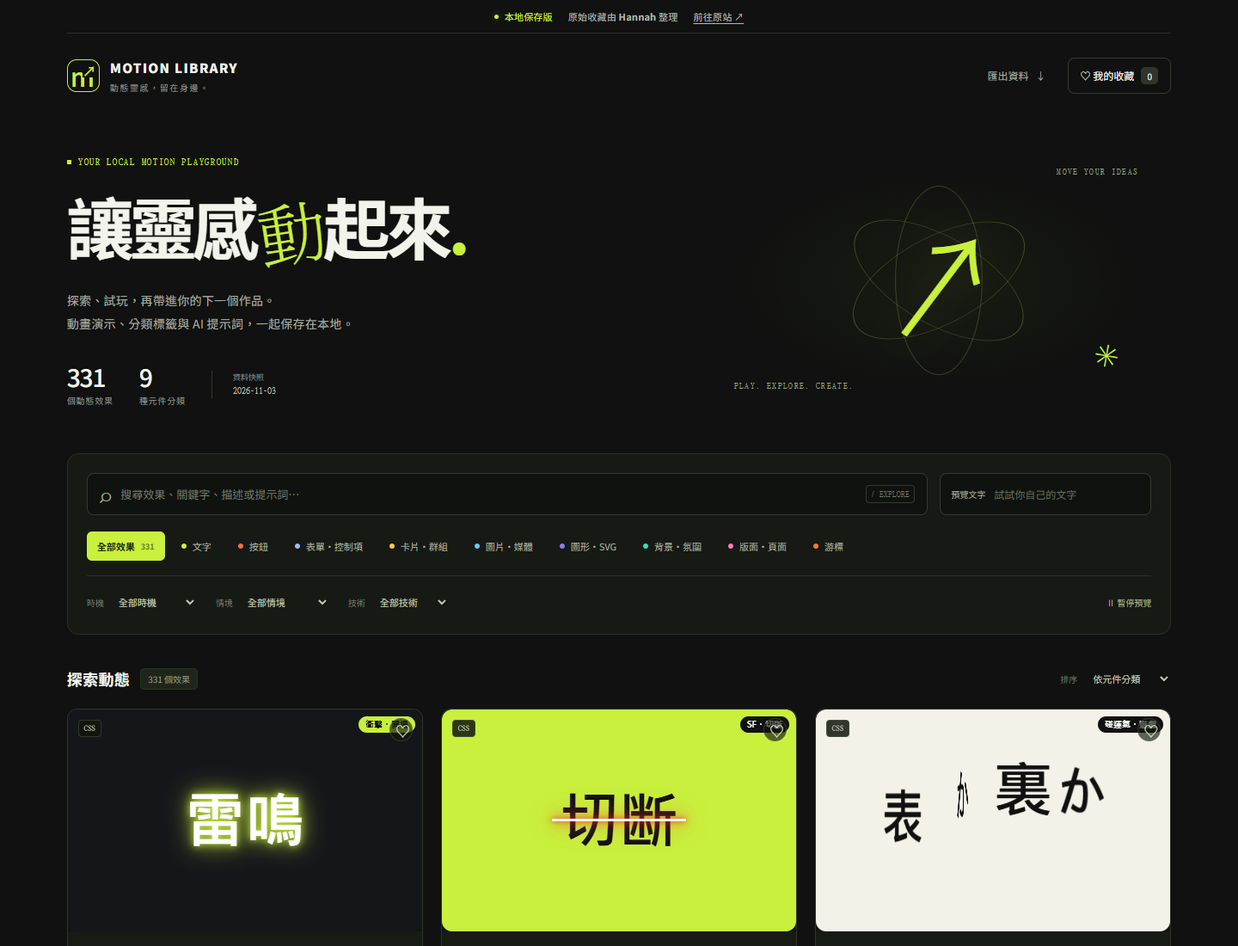
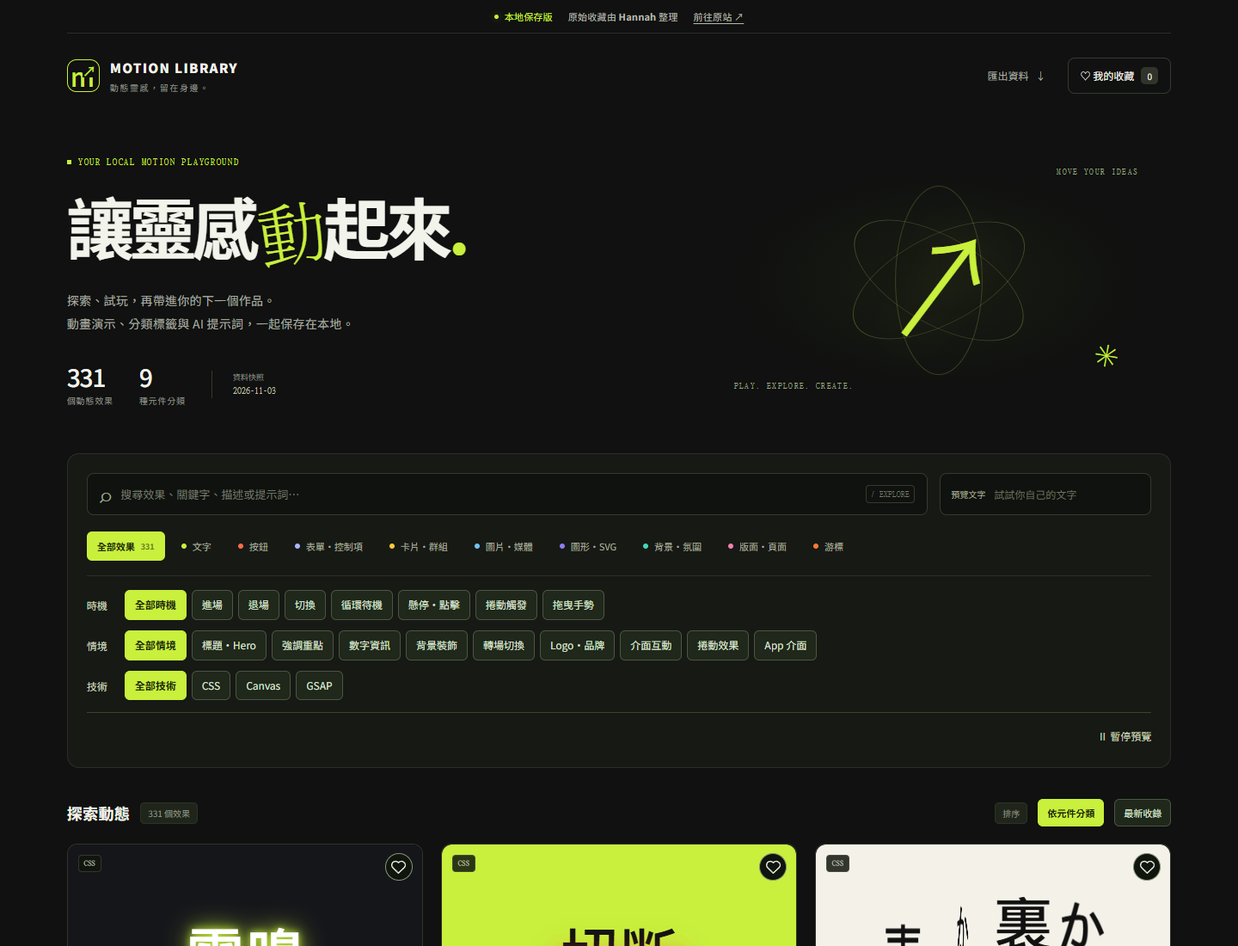
fix: 改善卡片可讀性與篩選操作
- 修正收藏愛心圖示置中
- 提高特效說明與標籤的文字對比度
- 調整演示標籤位置，避免與愛心重疊
- 將篩選與排序改為完整按鈕列，支援手機版換行
- 更新驗收測試、驗證報告與截圖

diff --git a/src/style.css b/src/style.css
@@ -1,4 +1,20 @@
-:root{font-family:Inter,"Noto Sans TC","Microsoft JhengHei",system-ui,sans-serif;color:#f2f3eb;background:#101110;font-synthesis:none;text-rendering:optimizeLegibility;-webkit-font-smoothing:antialiased;color-scheme:dark}*{box-sizing:border-box}body{margin:0}button,input,select,textarea{font:inherit}button,a,input,select,textarea{-webkit-tap-highlight-color:transparent}button,a{touch-action:manipulation}button{cursor:pointer}button:disabled{cursor:default;opacity:.35}button:focus-visible,a:focus-visible,input:focus-visible,select:focus-visible,textarea:focus-visible{outline:2px solid #c8f03c;outline-offset:4px}button{color:inherit}a{color:inherit}button,input,select,textarea{border-radius:0}.ml-app{--ml-lime:#c8f03c;--ml-muted:#8f938c;--ml-border:#2b2e28;max-width:1600px;margin:auto;padding:0 5.4vw}.ml-source-strip{display:flex;align-items:center;justify-content:center;gap:18px;padding:11px 0;border-bottom:1px solid var(--ml-border);font-size:11px;color:#b6b9ae;letter-spacing:.02em}.ml-source-strip>span:first-child{display:inline-flex;gap:7px;align-items:center;color:var(--ml-lime)}.ml-source-strip a{text-underline-offset:3px}.ml-status-dot{width:5px;height:5px;border-radius:50%;background:var(--ml-lime);box-shadow:0 0 9px #c8f03c66}.ml-header{display:flex;align-items:center;justify-content:space-between;padding:28px 0;gap:20px}.ml-brand{display:flex;align-items:center;gap:12px;text-decoration:none;font-size:15px;font-weight:800;letter-spacing:.09em}.ml-brand small{display:block;margin-top:5px;font-size:10px;color:var(--ml-muted);font-weight:400;letter-spacing:.16em}.ml-brand-mark{display:flex;align-items:center;justify-content:center;position:relative;width:38px;height:38px;border:1px solid var(--ml-lime);border-radius:11px;color:var(--ml-lime);font-size:30px;font-style:italic;line-height:1;font-weight:500;letter-spacing:-.17em;padding-right:7px}.ml-brand-mark span{font-size:16px;position:absolute;right:3px;top:4px;background:#101110;letter-spacing:0}.ml-header-actions{display:flex;align-items:center;gap:10px}.ml-button{display:inline-flex;gap:8px;align-items:center;justify-content:center;border:1px solid #363a30;border-radius:8px;background:transparent;padding:10px 14px;font-size:12px;line-height:1.3;transition:background .2s,border-color .2s}.ml-button:hover{background:#24271f;border-color:#727965}.ml-quiet{border-color:transparent;color:#a8aca1}.ml-active{color:var(--ml-lime);border-color:#6d7b34;background:#c8f03c0b}.ml-count{display:inline-grid;place-items:center;min-width:20px;height:20px;border-radius:5px;font-size:10px;background:#30342a}.ml-hero{position:relative;display:grid;grid-template-columns:1.3fr 1fr;gap:40px;align-items:center;padding:44px 0 56px;overflow:hidden}.ml-eyebrow{display:flex;align-items:center;gap:8px;font:10px/1.5 ui-monospace,monospace;letter-spacing:.17em;color:var(--ml-lime);margin:0 0 20px}.ml-eyebrow>span{height:5px;width:5px;background:var(--ml-lime)}.ml-hero h1{font-size:clamp(42px,5.8vw,78px);font-weight:700;letter-spacing:-.065em;line-height:1.2;margin:0 0 20px}.ml-serif{display:inline-block;font-family:"Noto Serif TC",Georgia,serif;color:var(--ml-lime);font-weight:500;transform:rotate(-9deg);margin:0 .04em}.ml-title-period{color:var(--ml-lime)}.ml-intro{color:#a7aba0;font-size:14px;line-height:1.95;letter-spacing:.02em;margin:0}.ml-hero-stats{display:flex;gap:30px;margin-top:33px;align-items:center}.ml-hero-stats>strong{font-size:28px;font-weight:500;letter-spacing:-.04em;line-height:1}.ml-hero-stats>strong span{display:block;font-size:10px;color:var(--ml-muted);letter-spacing:.08em;font-weight:400;margin-top:9px}.ml-snapshot{font-size:9px;line-height:1.7;color:var(--ml-muted);border-left:1px solid #353a2c;padding-left:24px}.ml-snapshot b{font:10px/1.7 ui-monospace,monospace;font-weight:400;color:#c0c5b5}.ml-hero-art{height:290px;position:relative;isolation:isolate;display:grid;place-items:center;background:radial-gradient(ellipse at center,#c8f03c0b,transparent 65%)}.ml-orbit{position:absolute;width:220px;height:220px;border:1px solid #879b4770;border-radius:50%;transform:rotate(-28deg) scaleY(.46)}.ml-orbit-two{transform:rotate(30deg) scaleY(.46)}.ml-orbit-three{transform:rotate(90deg) scaleY(.46)}.ml-art-core{font-size:150px;line-height:1;font-weight:300;color:var(--ml-lime);text-shadow:0 0 50px #c8f03c22;transform:rotate(-8deg)}.ml-art-label{position:absolute;font:9px/1 ui-monospace,monospace;color:#9da784;letter-spacing:.15em}.ml-art-label-top{top:14px;right:7%}.ml-art-label-bottom{bottom:18px;left:6%}.ml-art-star{position:absolute;right:11%;bottom:35px;font-size:35px;color:var(--ml-lime);transform:rotate(10deg)}.ml-explorer{padding:22px;border:1px solid var(--ml-border);border-radius:14px;background:#171915}.ml-search-row{display:flex;gap:14px}.ml-search{display:flex;align-items:center;gap:10px;flex:1;background:#10120f;border:1px solid #353a2e;border-radius:8px;padding:0 14px;min-width:0}.ml-search>span{font-size:25px;line-height:1;color:#9ba58b}.ml-search input{width:100%;min-width:0;border:0;outline:none;background:transparent;padding:14px 0;font-size:13px;color:#eef0e7}.ml-search input::placeholder{color:#747c6d}.ml-search kbd{flex-shrink:0;font:9px/1 ui-monospace,monospace;color:#727a69;padding:5px;border:1px solid #343a2e;border-radius:4px}.ml-custom-input{display:flex;align-items:center;gap:10px;border:1px solid #353a2e;border-radius:8px;padding:0 12px;background:#10120f;max-width:310px}.ml-custom-input span{font-size:10px;white-space:nowrap;color:#a0a794}.ml-custom-input input{background:none;border:0;min-width:0;width:170px;padding:14px 0;font-size:12px;outline:none}.ml-custom-input input::placeholder{color:#69715f}.ml-component-chips{display:flex;flex-wrap:wrap;gap:7px;padding:19px 0 17px;border-bottom:1px solid #2b3026}.ml-chip{display:flex;gap:7px;align-items:center;border:1px solid transparent;border-radius:6px;padding:8px 11px;background:transparent;color:#a6ad9e;font-size:11px;transition:color .2s,background .2s}.ml-chip i{width:6px;height:6px;border-radius:50%}.ml-chip span{font-size:9px;opacity:.6}.ml-chip:hover{background:#252a20;color:white}.ml-chip-selected{background:var(--ml-lime);color:#1c2409;font-weight:700}.ml-chip-selected:hover{background:#dbff62;color:#1c2409}.ml-secondary-filters{display:flex;gap:22px;align-items:center;padding-top:15px;flex-wrap:wrap}.ml-secondary-filters>label{font-size:10px;color:#777f6d;display:flex;gap:9px;align-items:center}.ml-secondary-filters select,.ml-sort select{padding:6px 20px 6px 4px;background:transparent;border:0;color:#c1c9b4;font-size:11px;cursor:pointer;max-width:180px}.ml-secondary-filters select option,.ml-sort select option{background:#1b1f17;color:#eef0e7}.ml-clear,.ml-play-toggle{border:0;background:none;font-size:10px;color:#a0ad89;padding:6px 0}.ml-clear:hover,.ml-play-toggle:hover{color:var(--ml-lime)}.ml-play-toggle{margin-left:auto;white-space:nowrap}.ml-results{scroll-margin-top:20px;margin-top:36px}.ml-results-bar{display:flex;justify-content:space-between;align-items:center;margin-bottom:20px;gap:14px}.ml-results-bar>div{display:flex;gap:12px;align-items:center}.ml-results-bar h2{font-size:18px;font-weight:600;letter-spacing:.02em;margin:0}.ml-results-bar>div>span{font-size:10px;color:#8e9684;padding:4px 8px;background:#20251b;border:1px solid #2c3324;border-radius:5px}.ml-sort{font-size:10px;color:#747e69}.ml-sort select{margin-left:10px}.ml-grid{display:grid;grid-template-columns:repeat(3,minmax(0,1fr));gap:21px}.ml-card{min-width:0;border:1px solid #30342b;border-radius:12px;overflow:hidden;background:#171a15;transition:border-color .2s,transform .2s}.ml-card:hover{border-color:#5d694b;transform:translateY(-2px)}.ml-card-preview{position:relative;aspect-ratio:16/10;min-width:0;overflow:hidden;background:#12150f}.ml-card-preview> :first-child{width:100%;height:100%}.ml-tech-badge{position:absolute;z-index:3;top:12px;left:12px;font:8px/1 ui-monospace,monospace;letter-spacing:.05em;padding:5px 6px;background:#10150dd9;border:1px solid #717c5d55;color:#d4ddc3;border-radius:4px;pointer-events:none}.ml-favorite{position:absolute;z-index:3;right:11px;top:10px;background:#10150da6;border:1px solid #8c957a44;border-radius:50%;height:27px;width:27px;display:grid;place-items:center;font-size:17px;color:#dce5d0}.ml-favorite:hover,.ml-favorited{color:var(--ml-lime);border-color:#a8c84c}.ml-card-body{padding:18px 18px 13px}.ml-card-title-row{display:flex;align-items:center;gap:10px}.ml-item-number{font:10px/1 ui-monospace,monospace;color:#748162;align-self:center}.ml-item-title{text-align:left;min-width:0;display:flex;gap:8px;align-items:center;width:100%;padding:0;border:0;background:none;color:#eef2e7;font-size:15px;font-weight:600;line-height:1.5}.ml-item-title span{margin-left:auto;font-size:15px;color:#9aa78b;transition:transform .2s}.ml-item-title:hover{color:var(--ml-accent)}.ml-item-title:hover span{transform:translate(2px,-2px)}.ml-item-english{margin:3px 0 0 30px;font:9px/1.7 ui-monospace,monospace;letter-spacing:.02em;color:#808d71;min-height:16px}.ml-item-desc{font-size:11px;line-height:1.7;color:#9aa58d;margin:12px 0;min-height:37px;display:-webkit-box;-webkit-line-clamp:2;-webkit-box-orient:vertical;overflow:hidden}.ml-tags{display:flex;flex-wrap:wrap;gap:5px;min-height:20px}.ml-tags button,.ml-tags>span{font-size:9px;line-height:1.3;border:1px solid #35412b;border-radius:4px;background:#20291b;color:#a4b690;padding:3px 6px}.ml-tags button:hover{color:#e4f8cd;border-color:#6b8a50}.ml-card-actions{display:flex;justify-content:space-between;align-items:center;gap:8px;border-top:1px solid #2e3726;margin-top:16px;padding-top:12px}.ml-prompt-button,.ml-detail-button{padding:3px 0;border:0;background:none;color:#b4c1a4;font-size:10px;line-height:1.5}.ml-prompt-button span{margin-right:5px;font-size:13px}.ml-detail-button{color:#d0dbbf;white-space:nowrap}.ml-detail-button span{margin-left:7px}.ml-prompt-button:hover,.ml-detail-button:hover{color:var(--ml-lime)}.ml-pagination{display:flex;justify-content:center;gap:25px;align-items:center;margin:35px 0 15px}.ml-pagination>span{color:#8f9c7e;font:11px/1.5 ui-monospace,monospace}.ml-pagination strong{color:var(--ml-lime);font-weight:500}.ml-empty{text-align:center;border:1px dashed #404e32;border-radius:12px;padding:65px 20px;background:#171c13}.ml-empty>span{font-size:40px;color:var(--ml-lime)}.ml-empty h3{font-size:20px;margin:15px 0 8px}.ml-empty p{color:#92a17f;font-size:12px;margin-bottom:25px}.ml-footer{margin-top:65px;padding:30px 0 40px;border-top:1px solid #2d3625;display:flex;justify-content:space-between;gap:28px;color:#7e8a6e;font-size:10px;line-height:1.8}.ml-footer p{margin:5px 0}.ml-footer-brand{color:#c5d4b1;font:11px/1.7 ui-monospace,monospace;letter-spacing:.1em;text-decoration:none}.ml-footer-brand span{color:var(--ml-lime)}.ml-footer-credit{text-align:right}.ml-footer-credit a{color:#b0c294;text-underline-offset:3px}.ml-dialog{margin:auto;border:1px solid #4a5839;border-radius:16px;padding:0;background:#171c13;color:#edf1e6;width:min(850px,calc(100% - 32px));max-height:calc(100dvh - 40px);overflow:auto;box-shadow:0 24px 100px #0009}.ml-dialog::backdrop{background:#080b07d6;backdrop-filter:blur(8px)}.ml-dialog-header{display:flex;align-items:flex-start;justify-content:space-between;padding:23px 25px;gap:20px}.ml-dialog-header .ml-eyebrow{margin-bottom:8px;font-size:9px}.ml-dialog-header h2{margin:0;font-size:25px}.ml-dialog-header>div>p:last-child{font:11px/1.6 ui-monospace,monospace;color:#97a586;margin:5px 0 0}.ml-close{border:1px solid #425133;border-radius:50%;background:#222c19;width:32px;height:32px;font-size:22px;line-height:1}.ml-close:hover{background:#354825}.ml-large-preview{position:relative;height:clamp(230px,40vh,390px);overflow:hidden;background:#0f140b;border-top:1px solid #313e25;border-bottom:1px solid #313e25}.ml-large-preview> :first-child{width:100%;height:100%}.ml-replay{position:absolute;z-index:4;right:14px;bottom:14px;border:1px solid #a1bc7a77;background:#14200ddc;border-radius:6px;padding:7px 12px;font-size:11px;color:#e0efc9}.ml-dialog-content{padding:23px 25px}.ml-detail-desc{font-size:14px;line-height:1.8;margin:0 0 14px;color:#c3cfb4}.ml-keyword-section{padding:19px 0 8px}.ml-dialog h3{font-size:12px;font-weight:600;margin:0}.ml-keyword-section p{font-size:11px;line-height:1.8;color:#99ad82;margin:8px 0}.ml-prompt-heading{display:flex;align-items:center;justify-content:space-between;gap:15px;margin:15px 0 12px}.ml-primary{background:var(--ml-lime);color:#1b240d;border-color:var(--ml-lime);font-weight:700}.ml-primary:hover{background:#dbff62;border-color:#dbff62}.ml-prompt-text{display:block;resize:vertical;width:100%;border:1px solid #3c4d2c;background:#10160c;border-radius:8px;padding:15px;color:#cbd8bd;font-size:12px;line-height:1.9;min-height:140px}.ml-detail-source{display:flex;justify-content:space-between;gap:14px;font-size:10px;line-height:1.8;color:#8e9f78;margin-top:18px;flex-wrap:wrap}.ml-detail-source a{color:#c8dfab;text-underline-offset:3px}.ml-toast{position:fixed;z-index:200;bottom:25px;left:50%;transform:translate(-50%,15px);background:#d2f77b;color:#1c2a0b;border:1px solid #ebffc1;border-radius:9px;padding:12px 20px;font-size:12px;box-shadow:0 8px 35px #0006;opacity:0;pointer-events:none;transition:opacity .2s,transform .2s;max-width:calc(100vw - 32px);width:max-content}.ml-toast-visible{opacity:1;transform:translate(-50%,0)}
+:root{font-family:Inter,"Noto Sans TC","Microsoft JhengHei",system-ui,sans-serif;color:#f2f3eb;background:#101110;font-synthesis:none;text-rendering:optimizeLegibility;-webkit-font-smoothing:antialiased;color-scheme:dark}*{box-sizing:border-box}body{margin:0}button,input,select,textarea{font:inherit}button,a,input,select,textarea{-webkit-tap-highlight-color:transparent}button,a{touch-action:manipulation}button{cursor:pointer}button:disabled{cursor:default;opacity:.35}button:focus-visible,a:focus-visible,input:focus-visible,select:focus-visible,textarea:focus-visible{outline:2px solid #c8f03c;outline-offset:4px}button{color:inherit}a{color:inherit}button,input,select,textarea{border-radius:0}.ml-app{--ml-lime:#c8f03c;--ml-muted:#8f938c;--ml-border:#2b2e28;max-width:1600px;margin:auto;padding:0 5.4vw}.ml-source-strip{display:flex;align-items:center;justify-content:center;gap:18px;padding:11px 0;border-bottom:1px solid var(--ml-border);font-size:11px;color:#b6b9ae;letter-spacing:.02em}.ml-source-strip>span:first-child{display:inline-flex;gap:7px;align-items:center;color:var(--ml-lime)}.ml-source-strip a{text-underline-offset:3px}.ml-status-dot{width:5px;height:5px;border-radius:50%;background:var(--ml-lime);box-shadow:0 0 9px #c8f03c66}.ml-header{display:flex;align-items:center;justify-content:space-between;padding:28px 0;gap:20px}.ml-brand{display:flex;align-items:center;gap:12px;text-decoration:none;font-size:15px;font-weight:800;letter-spacing:.09em}.ml-brand small{display:block;margin-top:5px;font-size:10px;color:var(--ml-muted);font-weight:400;letter-spacing:.16em}.ml-brand-mark{display:flex;align-items:center;justify-content:center;position:relative;width:38px;height:38px;border:1px solid var(--ml-lime);border-radius:11px;color:var(--ml-lime);font-size:30px;font-style:italic;line-height:1;font-weight:500;letter-spacing:-.17em;padding-right:7px}.ml-brand-mark span{font-size:16px;position:absolute;right:3px;top:4px;background:#101110;letter-spacing:0}.ml-header-actions{display:flex;align-items:center;gap:10px}.ml-button{display:inline-flex;gap:8px;align-items:center;justify-content:center;border:1px solid #363a30;border-radius:8px;background:transparent;padding:10px 14px;font-size:12px;line-height:1.3;transition:background .2s,border-color .2s}.ml-button:hover{background:#24271f;border-color:#727965}.ml-quiet{border-color:transparent;color:#a8aca1}.ml-active{color:var(--ml-lime);border-color:#6d7b34;background:#c8f03c0b}.ml-count{display:inline-grid;place-items:center;min-width:20px;height:20px;border-radius:5px;font-size:10px;background:#30342a}.ml-hero{position:relative;display:grid;grid-template-columns:1.3fr 1fr;gap:40px;align-items:center;padding:44px 0 56px;overflow:hidden}.ml-eyebrow{display:flex;align-items:center;gap:8px;font:10px/1.5 ui-monospace,monospace;letter-spacing:.17em;color:var(--ml-lime);margin:0 0 20px}.ml-eyebrow>span{height:5px;width:5px;background:var(--ml-lime)}.ml-hero h1{font-size:clamp(42px,5.8vw,78px);font-weight:700;letter-spacing:-.065em;line-height:1.2;margin:0 0 20px}.ml-serif{display:inline-block;font-family:"Noto Serif TC",Georgia,serif;color:var(--ml-lime);font-weight:500;transform:rotate(-9deg);margin:0 .04em}.ml-title-period{color:var(--ml-lime)}.ml-intro{color:#a7aba0;font-size:14px;line-height:1.95;letter-spacing:.02em;margin:0}.ml-hero-stats{display:flex;gap:30px;margin-top:33px;align-items:center}.ml-hero-stats>strong{font-size:28px;font-weight:500;letter-spacing:-.04em;line-height:1}.ml-hero-stats>strong span{display:block;font-size:10px;color:var(--ml-muted);letter-spacing:.08em;font-weight:400;margin-top:9px}.ml-snapshot{font-size:9px;line-height:1.7;color:var(--ml-muted);border-left:1px solid #353a2c;padding-left:24px}.ml-snapshot b{font:10px/1.7 ui-monospace,monospace;font-weight:400;color:#c0c5b5}.ml-hero-art{height:290px;position:relative;isolation:isolate;display:grid;place-items:center;background:radial-gradient(ellipse at center,#c8f03c0b,transparent 65%)}.ml-orbit{position:absolute;width:220px;height:220px;border:1px solid #879b4770;border-radius:50%;transform:rotate(-28deg) scaleY(.46)}.ml-orbit-two{transform:rotate(30deg) scaleY(.46)}.ml-orbit-three{transform:rotate(90deg) scaleY(.46)}.ml-art-core{font-size:150px;line-height:1;font-weight:300;color:var(--ml-lime);text-shadow:0 0 50px #c8f03c22;transform:rotate(-8deg)}.ml-art-label{position:absolute;font:9px/1 ui-monospace,monospace;color:#9da784;letter-spacing:.15em}.ml-art-label-top{top:14px;right:7%}.ml-art-label-bottom{bottom:18px;left:6%}.ml-art-star{position:absolute;right:11%;bottom:35px;font-size:35px;color:var(--ml-lime);transform:rotate(10deg)}.ml-explorer{padding:22px;border:1px solid var(--ml-border);border-radius:14px;background:#171915}.ml-search-row{display:flex;gap:14px}.ml-search{display:flex;align-items:center;gap:10px;flex:1;background:#10120f;border:1px solid #353a2e;border-radius:8px;padding:0 14px;min-width:0}.ml-search>span{font-size:25px;line-height:1;color:#9ba58b}.ml-search input{width:100%;min-width:0;border:0;outline:none;background:transparent;padding:14px 0;font-size:13px;color:#eef0e7}.ml-search input::placeholder{color:#747c6d}.ml-search kbd{flex-shrink:0;font:9px/1 ui-monospace,monospace;color:#727a69;padding:5px;border:1px solid #343a2e;border-radius:4px}.ml-custom-input{display:flex;align-items:center;gap:10px;border:1px solid #353a2e;border-radius:8px;padding:0 12px;background:#10120f;max-width:310px}.ml-custom-input span{font-size:10px;white-space:nowrap;color:#a0a794}.ml-custom-input input{background:none;border:0;min-width:0;width:170px;padding:14px 0;font-size:12px;outline:none}.ml-custom-input input::placeholder{color:#69715f}.ml-component-chips{display:flex;flex-wrap:wrap;gap:7px;padding:19px 0 17px;border-bottom:1px solid #2b3026}.ml-chip{display:flex;gap:7px;align-items:center;border:1px solid transparent;border-radius:6px;padding:8px 11px;background:transparent;color:#a6ad9e;font-size:11px;transition:color .2s,background .2s}.ml-chip i{width:6px;height:6px;border-radius:50%}.ml-chip span{font-size:9px;opacity:.6}.ml-chip:hover{background:#252a20;color:white}.ml-chip-selected{background:var(--ml-lime);color:#1c2409;font-weight:700}.ml-chip-selected:hover{background:#dbff62;color:#1c2409}.ml-secondary-filters{display:flex;gap:22px;align-items:center;padding-top:15px;flex-wrap:wrap}.ml-secondary-filters>label{font-size:10px;color:#777f6d;display:flex;gap:9px;align-items:center}.ml-secondary-filters select,.ml-sort select{padding:6px 20px 6px 4px;background:transparent;border:0;color:#c1c9b4;font-size:11px;cursor:pointer;max-width:180px}.ml-secondary-filters select option,.ml-sort select option{background:#1b1f17;color:#eef0e7}.ml-clear,.ml-play-toggle{border:0;background:none;font-size:10px;color:#a0ad89;padding:6px 0}.ml-clear:hover,.ml-play-toggle:hover{color:var(--ml-lime)}.ml-play-toggle{margin-left:auto;white-space:nowrap}.ml-results{scroll-margin-top:20px;margin-top:36px}.ml-results-bar{display:flex;justify-content:space-between;align-items:center;margin-bottom:20px;gap:14px}.ml-results-bar>div{display:flex;gap:12px;align-items:center}.ml-results-bar h2{font-size:18px;font-weight:600;letter-spacing:.02em;margin:0}.ml-results-bar>div>span{font-size:10px;color:#8e9684;padding:4px 8px;background:#20251b;border:1px solid #2c3324;border-radius:5px}.ml-sort{font-size:10px;color:#747e69}.ml-sort select{margin-left:10px}.ml-grid{display:grid;grid-template-columns:repeat(3,minmax(0,1fr));gap:21px}.ml-card{min-width:0;border:1px solid #30342b;border-radius:12px;overflow:hidden;background:#171a15;transition:border-color .2s,transform .2s}.ml-card:hover{border-color:#5d694b;transform:translateY(-2px)}.ml-card-preview{position:relative;aspect-ratio:16/10;min-width:0;overflow:hidden;background:#12150f}.ml-card-preview> :first-child{width:100%;height:100%}.ml-tech-badge{position:absolute;z-index:3;top:12px;left:12px;font:8px/1 ui-monospace,monospace;letter-spacing:.05em;padding:5px 6px;background:#10150dd9;border:1px solid #717c5d55;color:#d4ddc3;border-radius:4px;pointer-events:none}.ml-favorite{position:absolute;z-index:3;right:11px;top:10px;background:#10150d;border:1px solid #849474;border-radius:50%;height:32px;width:32px;padding:0;display:grid;place-items:center;line-height:1;color:#eff5e7}.ml-heart-icon{display:block;width:19px;height:19px;fill:none;stroke:currentColor;stroke-width:1.8;stroke-linecap:round;stroke-linejoin:round}.ml-favorited .ml-heart-icon{fill:currentColor}.ml-favorite:hover,.ml-favorited{color:var(--ml-lime);border-color:#a8c84c}.ml-card-body{padding:18px 18px 13px}.ml-card-title-row{display:flex;align-items:center;gap:10px}.ml-item-number{font:10px/1 ui-monospace,monospace;color:#748162;align-self:center}.ml-item-title{text-align:left;min-width:0;display:flex;gap:8px;align-items:center;width:100%;padding:0;border:0;background:none;color:#eef2e7;font-size:15px;font-weight:600;line-height:1.5}.ml-item-title span{margin-left:auto;font-size:15px;color:#9aa78b;transition:transform .2s}.ml-item-title:hover{color:var(--ml-accent)}.ml-item-title:hover span{transform:translate(2px,-2px)}.ml-item-english{margin:3px 0 0 30px;font:9px/1.7 ui-monospace,monospace;letter-spacing:.02em;color:#b3c1a4;min-height:16px}.ml-item-desc{font-size:12px;line-height:1.7;color:#d2dcc8;margin:12px 0;min-height:37px;display:-webkit-box;-webkit-line-clamp:2;-webkit-box-orient:vertical;overflow:hidden}.ml-tags{display:flex;flex-wrap:wrap;gap:5px;min-height:20px}.ml-tags button,.ml-tags>span{font-size:11px;line-height:1.5;border:1px solid #637153;border-radius:5px;background:#293421;color:#edf5e4;padding:4px 8px}.ml-tags button:hover{color:#fff;background:#3a4b2c;border-color:#adc58b}.ml-card-actions{display:flex;justify-content:space-between;align-items:center;gap:8px;border-top:1px solid #2e3726;margin-top:16px;padding-top:12px}.ml-prompt-button,.ml-detail-button{padding:3px 0;border:0;background:none;color:#b4c1a4;font-size:10px;line-height:1.5}.ml-prompt-button span{margin-right:5px;font-size:13px}.ml-detail-button{color:#d0dbbf;white-space:nowrap}.ml-detail-button span{margin-left:7px}.ml-prompt-button:hover,.ml-detail-button:hover{color:var(--ml-lime)}.ml-pagination{display:flex;justify-content:center;gap:25px;align-items:center;margin:35px 0 15px}.ml-pagination>span{color:#8f9c7e;font:11px/1.5 ui-monospace,monospace}.ml-pagination strong{color:var(--ml-lime);font-weight:500}.ml-empty{text-align:center;border:1px dashed #404e32;border-radius:12px;padding:65px 20px;background:#171c13}.ml-empty>span{font-size:40px;color:var(--ml-lime)}.ml-empty h3{font-size:20px;margin:15px 0 8px}.ml-empty p{color:#92a17f;font-size:12px;margin-bottom:25px}.ml-footer{margin-top:65px;padding:30px 0 40px;border-top:1px solid #2d3625;display:flex;justify-content:space-between;gap:28px;color:#7e8a6e;font-size:10px;line-height:1.8}.ml-footer p{margin:5px 0}.ml-footer-brand{color:#c5d4b1;font:11px/1.7 ui-monospace,monospace;letter-spacing:.1em;text-decoration:none}.ml-footer-brand span{color:var(--ml-lime)}.ml-footer-credit{text-align:right}.ml-footer-credit a{color:#b0c294;text-underline-offset:3px}.ml-dialog{margin:auto;border:1px solid #4a5839;border-radius:16px;padding:0;background:#171c13;color:#edf1e6;width:min(850px,calc(100% - 32px));max-height:calc(100dvh - 40px);overflow:auto;box-shadow:0 24px 100px #0009}.ml-dialog::backdrop{background:#080b07d6;backdrop-filter:blur(8px)}.ml-dialog-header{display:flex;align-items:flex-start;justify-content:space-between;padding:23px 25px;gap:20px}.ml-dialog-header .ml-eyebrow{margin-bottom:8px;font-size:9px}.ml-dialog-header h2{margin:0;font-size:25px}.ml-dialog-header>div>p:last-child{font:11px/1.6 ui-monospace,monospace;color:#97a586;margin:5px 0 0}.ml-close{border:1px solid #425133;border-radius:50%;background:#222c19;width:32px;height:32px;font-size:22px;line-height:1}.ml-close:hover{background:#354825}.ml-large-preview{position:relative;height:clamp(230px,40vh,390px);overflow:hidden;background:#0f140b;border-top:1px solid #313e25;border-bottom:1px solid #313e25}.ml-large-preview> :first-child{width:100%;height:100%}.ml-replay{position:absolute;z-index:4;right:14px;bottom:14px;border:1px solid #a1bc7a77;background:#14200ddc;border-radius:6px;padding:7px 12px;font-size:11px;color:#e0efc9}.ml-dialog-content{padding:23px 25px}.ml-detail-desc{font-size:14px;line-height:1.8;margin:0 0 14px;color:#c3cfb4}.ml-keyword-section{padding:19px 0 8px}.ml-dialog h3{font-size:12px;font-weight:600;margin:0}.ml-keyword-section p{font-size:11px;line-height:1.8;color:#99ad82;margin:8px 0}.ml-prompt-heading{display:flex;align-items:center;justify-content:space-between;gap:15px;margin:15px 0 12px}.ml-primary{background:var(--ml-lime);color:#1b240d;border-color:var(--ml-lime);font-weight:700}.ml-primary:hover{background:#dbff62;border-color:#dbff62}.ml-prompt-text{display:block;resize:vertical;width:100%;border:1px solid #3c4d2c;background:#10160c;border-radius:8px;padding:15px;color:#cbd8bd;font-size:12px;line-height:1.9;min-height:140px}.ml-detail-source{display:flex;justify-content:space-between;gap:14px;font-size:10px;line-height:1.8;color:#8e9f78;margin-top:18px;flex-wrap:wrap}.ml-detail-source a{color:#c8dfab;text-underline-offset:3px}.ml-toast{position:fixed;z-index:200;bottom:25px;left:50%;transform:translate(-50%,15px);background:#d2f77b;color:#1c2a0b;border:1px solid #ebffc1;border-radius:9px;padding:12px 20px;font-size:12px;box-shadow:0 8px 35px #0006;opacity:0;pointer-events:none;transition:opacity .2s,transform .2s;max-width:calc(100vw - 32px);width:max-content}.ml-toast-visible{opacity:1;transform:translate(-50%,0)}
 @media(min-width:1450px){.ml-grid{grid-template-columns:repeat(4,minmax(0,1fr))}.ml-app{padding:0 70px}.ml-hero{grid-template-columns:1.4fr 1fr}.ml-hero-art{height:310px}}@media(max-width:1000px){.ml-app{padding:0 30px}.ml-grid{grid-template-columns:repeat(2,minmax(0,1fr))}.ml-hero h1{font-size:57px}.ml-hero-art{height:260px}.ml-orbit{width:190px;height:190px}.ml-art-core{font-size:130px}.ml-search kbd{display:none}.ml-custom-input{max-width:250px}.ml-custom-input input{width:130px}.ml-explorer{padding:18px}.ml-secondary-filters{gap:14px}}@media(max-width:650px){.ml-app{padding:0 18px}.ml-source-strip{gap:9px;justify-content:space-between;font-size:9px}.ml-source-strip>span:nth-child(2){font-size:9px}.ml-header{padding:23px 0;gap:12px}.ml-brand{font-size:11px;gap:8px;letter-spacing:.07em}.ml-brand small{font-size:8px;letter-spacing:.07em}.ml-brand-mark{width:30px;height:30px;font-size:24px;border-radius:8px}.ml-brand-mark span{font-size:12px}.ml-header-actions{gap:3px}.ml-header-actions .ml-button{font-size:10px;padding:8px}.ml-header-actions .ml-quiet{display:none}.ml-hero{display:block;padding:25px 0 35px;overflow:visible}.ml-hero-copy{position:relative;z-index:1}.ml-eyebrow{font-size:8px;letter-spacing:.1em;margin-bottom:15px}.ml-hero h1{font-size:clamp(38px,9vw,55px);letter-spacing:-.07em;margin-bottom:15px}.ml-intro{font-size:11px;line-height:1.9}.ml-hero-stats{gap:25px;margin-top:26px}.ml-hero-stats>strong{font-size:23px}.ml-hero-stats>strong span{font-size:9px}.ml-snapshot{font-size:8px;padding-left:17px}.ml-snapshot b{font-size:9px}.ml-hero-art{display:none}.ml-explorer{padding:13px;border-radius:10px}.ml-search-row{display:block}.ml-search{padding:0 10px}.ml-search input{font-size:12px;padding:12px 0}.ml-custom-input{margin-top:9px;max-width:none;padding:0 10px}.ml-custom-input input{width:100%;padding:10px 0;font-size:11px}.ml-component-chips{gap:4px;padding:13px 0;flex-wrap:nowrap;overflow-x:auto;scrollbar-width:thin}.ml-chip{flex-shrink:0;font-size:10px;padding:7px 9px}.ml-secondary-filters{gap:5px 13px;padding-top:9px}.ml-secondary-filters>label{gap:4px;font-size:9px}.ml-secondary-filters select{padding-right:5px;font-size:10px;max-width:120px}.ml-play-toggle{font-size:9px}.ml-clear{font-size:9px}.ml-results{margin-top:25px}.ml-results-bar{margin-bottom:15px}.ml-results-bar h2{font-size:16px}.ml-results-bar>div{gap:8px}.ml-results-bar>div>span{font-size:9px;padding:3px 6px}.ml-sort{font-size:9px}.ml-sort select{font-size:10px;padding-right:0;margin-left:4px}.ml-grid{grid-template-columns:1fr;gap:18px}.ml-card-preview{aspect-ratio:16/9}.ml-card-body{padding:17px}.ml-item-title{font-size:16px}.ml-item-desc{min-height:0;font-size:12px}.ml-item-english{font-size:10px}.ml-tags button,.ml-tags>span{font-size:10px}.ml-prompt-button,.ml-detail-button{font-size:11px}.ml-pagination{gap:16px;margin-top:25px}.ml-pagination .ml-button{font-size:10px;padding:9px 11px}.ml-pagination>span{font-size:10px}.ml-footer{display:block;margin-top:40px;padding-top:24px;font-size:9px}.ml-footer-credit{text-align:left;margin-top:18px}.ml-dialog-header{padding:18px}.ml-dialog-header h2{font-size:21px}.ml-dialog-content{padding:18px}.ml-prompt-text{font-size:12px}.ml-detail-desc{font-size:13px}.ml-detail-source{font-size:9px}.ml-toast{font-size:11px;padding:11px 15px}}@media(prefers-reduced-motion:reduce){*,*::before,*::after{scroll-behavior:auto!important}.ml-card,.ml-item-title span,.ml-toast{transition:none}.ml-card:hover{transform:none}}
 
 .ml-dialog-notice{position:sticky;bottom:0;margin:0 18px 18px;padding:11px 15px;border:1px solid #a4bc6f;border-radius:8px;background:#d2f77b;color:#1c2a0b;font-size:12px;box-shadow:0 5px 20px #0005;z-index:8}
+
+/* Expanded filters keep every choice visible on desktop and mobile. */
+.ml-filter-rows{display:grid;gap:12px;padding-top:16px}
+.ml-filter-row{display:flex;align-items:flex-start;gap:14px;min-width:0}
+.ml-filter-label{flex:0 0 30px;padding-top:9px;font-size:12px;color:#cad5bf}
+.ml-filter-options{display:flex;flex-wrap:wrap;gap:6px;min-width:0}
+.ml-filter-options .ml-chip{border-color:#4b5740;background:#20271b;color:#dbe5d0;font-size:12px;line-height:1.4}
+.ml-filter-options .ml-chip:hover{background:#334128;border-color:#91a477;color:#fff}
+.ml-filter-options .ml-chip-selected{background:var(--ml-lime);border-color:var(--ml-lime);color:#1c2409}
+.ml-filter-options .ml-chip-selected:hover{background:#dbff62;color:#1c2409}
+.ml-filter-actions{display:flex;align-items:center;gap:16px;padding-top:12px;margin-top:14px;border-top:1px solid #39442e}
+.ml-clear,.ml-play-toggle{font-size:12px;color:#c5d3b5}
+.ml-sort{display:flex;align-items:center;flex-wrap:wrap;gap:6px;color:#c5d3b5;font-size:11px}
+.ml-sort .ml-chip{padding:7px 10px;border:1px solid #4b5740;color:#dbe5d0;background:#20271b}
+.ml-sort .ml-chip-selected{background:var(--ml-lime);border-color:var(--ml-lime);color:#1c2409}
+@media(max-width:650px){.ml-component-chips{flex-wrap:wrap;overflow:visible}.ml-filter-row{gap:8px}.ml-filter-label{flex-basis:26px;font-size:11px}.ml-filter-options{gap:5px}.ml-filter-options .ml-chip{font-size:11px;padding:7px 8px}.ml-results-bar{align-items:flex-start;flex-wrap:wrap}.ml-sort{margin-left:auto}.ml-tags button,.ml-tags>span{font-size:11px}}

diff --git a/src/App.vue b/src/App.vue
@@ -161,20 +161,37 @@ function turnPage(value: number) {
           <button type="button" class="ml-chip" :class="{ 'ml-chip-selected': !component }" :aria-pressed="!component" @click="component = ''">全部效果 <span>{{ catalog.items.length }}</span></button>
           <button v-for="[key, label, color] in catalog.comps" :key="key" type="button" class="ml-chip" :class="{ 'ml-chip-selected': component === key }" :aria-pressed="component === key" @click="component = component === key ? '' : key"><i :style="{ background: color }"></i>{{ label }}</button>
         </div>
-        <div class="ml-secondary-filters">
-          <label>時機<select v-model="timing" aria-label="依時機篩選"><option value="">全部時機</option><option v-for="[key, label] in catalog.whens" :key="key" :value="key">{{ label }}</option></select></label>
-          <label>情境<select v-model="usage" aria-label="依情境篩選"><option value="">全部情境</option><option v-for="(label, key) in catalog.uses" :key="key" :value="key">{{ label }}</option></select></label>
-          <label>技術<select v-model="technology" aria-label="依技術篩選"><option value="">全部技術</option><option v-for="tech in technologies" :key="tech" :value="tech">{{ tech }}</option></select></label>
+        <div class="ml-filter-rows">
+          <div class="ml-filter-row" role="group" aria-label="依時機篩選">
+            <span class="ml-filter-label">時機</span><div class="ml-filter-options">
+              <button type="button" class="ml-chip" :class="{ 'ml-chip-selected': !timing }" :aria-pressed="!timing" @click="timing = ''">全部時機</button>
+              <button v-for="[key, label] in catalog.whens" :key="key" type="button" class="ml-chip" :class="{ 'ml-chip-selected': timing === key }" :aria-pressed="timing === key" @click="timing = timing === key ? '' : key">{{ label }}</button>
+            </div>
+          </div>
+          <div class="ml-filter-row" role="group" aria-label="依情境篩選">
+            <span class="ml-filter-label">情境</span><div class="ml-filter-options">
+              <button type="button" class="ml-chip" :class="{ 'ml-chip-selected': !usage }" :aria-pressed="!usage" @click="usage = ''">全部情境</button>
+              <button v-for="(label, key) in catalog.uses" :key="key" type="button" class="ml-chip" :class="{ 'ml-chip-selected': usage === key }" :aria-pressed="usage === key" @click="usage = usage === key ? '' : key">{{ label }}</button>
+            </div>
+          </div>
+          <div class="ml-filter-row" role="group" aria-label="依技術篩選">
+            <span class="ml-filter-label">技術</span><div class="ml-filter-options">
+              <button type="button" class="ml-chip" :class="{ 'ml-chip-selected': !technology }" :aria-pressed="!technology" @click="technology = ''">全部技術</button>
+              <button v-for="tech in technologies" :key="tech" type="button" class="ml-chip" :class="{ 'ml-chip-selected': technology === tech }" :aria-pressed="technology === tech" @click="technology = technology === tech ? '' : tech">{{ tech }}</button>
+            </div>
+          </div>
+        </div>
+        <div class="ml-filter-actions">
           <button v-if="hasFilters" class="ml-clear" type="button" @click="reset">清除篩選 ×</button>
           <button class="ml-play-toggle" type="button" :aria-pressed="!playing" @click="playing = !playing">{{ playing ? 'Ⅱ 暫停預覽' : '▷ 播放預覽' }}</button>
         </div>
       </section>
 
       <section id="ml-results" class="ml-results" aria-labelledby="ml-results-heading">
-        <div class="ml-results-bar"><div><h2 id="ml-results-heading">{{ favoritesOnly ? '我的收藏' : component ? compLabel(component) : '探索動態' }}</h2><span aria-live="polite">{{ filtered.length }} 個效果</span></div><label class="ml-sort">排序<select v-model="sort" aria-label="排序方式"><option value="group">依元件分類</option><option value="latest">最新收錄</option></select></label></div>
+        <div class="ml-results-bar"><div><h2 id="ml-results-heading">{{ favoritesOnly ? '我的收藏' : component ? compLabel(component) : '探索動態' }}</h2><span aria-live="polite">{{ filtered.length }} 個效果</span></div><div class="ml-sort" role="group" aria-label="排序方式"><span>排序</span><button type="button" class="ml-chip" :class="{ 'ml-chip-selected': sort === 'group' }" :aria-pressed="sort === 'group'" @click="sort = 'group'">依元件分類</button><button type="button" class="ml-chip" :class="{ 'ml-chip-selected': sort === 'latest' }" :aria-pressed="sort === 'latest'" @click="sort = 'latest'">最新收錄</button></div></div>
         <div v-if="visible.length" class="ml-grid">
           <article v-for="item in visible" :key="item.id" class="ml-card" :style="{ '--ml-accent': accent(item.comp) }">
-            <div class="ml-card-preview"><MotionPreview :item="item" :text="customText" :playing="playing && !selected" /><span class="ml-tech-badge">{{ item.tech }}</span><button class="ml-favorite" type="button" :class="{ 'ml-favorited': favorites.includes(item.id) }" :aria-label="`${favorites.includes(item.id) ? '取消收藏' : '收藏'} ${item.zh}`" :aria-pressed="favorites.includes(item.id)" @click="toggleFavorite(item.id)">{{ favorites.includes(item.id) ? '♥' : '♡' }}</button></div>
+            <div class="ml-card-preview"><MotionPreview :item="item" :text="customText" :playing="playing && !selected" /><span class="ml-tech-badge">{{ item.tech }}</span><button class="ml-favorite" type="button" :class="{ 'ml-favorited': favorites.includes(item.id) }" :aria-label="`${favorites.includes(item.id) ? '取消收藏' : '收藏'} ${item.zh}`" :aria-pressed="favorites.includes(item.id)" @click="toggleFavorite(item.id)"><svg class="ml-heart-icon" viewBox="0 0 24 24" aria-hidden="true" focusable="false"><path d="M12 20.5 3.7 12.6a5.5 5.5 0 0 1 7.8-7.8l.5.5.5-.5a5.5 5.5 0 0 1 7.8 7.8Z" /></svg></button></div>
             <div class="ml-card-body"><div class="ml-card-title-row"><span class="ml-item-number">{{ String(item.id).padStart(3, '0') }}</span><button class="ml-item-title" type="button" @click="openDetail(item)">{{ item.zh }} <span aria-hidden="true">↗</span></button></div><p class="ml-item-english">{{ item.en }}</p><p class="ml-item-desc">{{ item.desc }}</p><div class="ml-tags"><button v-for="when in item.when" :key="when" type="button" @click="timing = when">{{ whenLabel(when) }}</button><button v-for="use in item.uses" :key="use" type="button" @click="usage = use">{{ catalog.uses[use] || use }}</button></div><div class="ml-card-actions"><button type="button" class="ml-prompt-button" @click="copyPrompt(item)"><span aria-hidden="true">▧</span> 複製 AI 提示詞</button><button type="button" class="ml-detail-button" :aria-label="`查看 ${item.zh} 詳情`" @click="openDetail(item)">試玩 <span aria-hidden="true">→</span></button></div></div>
           </article>
         </div>

diff --git a/public/runtime/stage.css b/public/runtime/stage.css
@@ -1,1 +1,4 @@
 :root{--a:#c8f03c;--dark:#15161a;--cream:#f4f1e8;--g1:#c8f03c;--g2:#ff6b4a;--g3:#8b7cf6;--g4:#3dd9b8;--g5:#ffc93c}*{box-sizing:border-box;margin:0;padding:0}html,body{width:100%;height:100%;overflow:hidden;font-family:system-ui,sans-serif}.stage{position:relative;width:100%;height:100%;overflow:hidden;display:grid;place-items:center;container-type:inline-size;perspective:600px}.stage.dark{background:var(--dark);color:#fff}.stage.cream{background:var(--cream);color:#111}.stage.acc{background:var(--a);color:#111}.tag{pointer-events:none;position:absolute;top:8px;right:8px;font-size:10px;font-weight:700;padding:3px 8px;border-radius:99px;z-index:20;background:#111;color:#fff}.stage.dark .tag{background:var(--a);color:#111}.error{padding:24px;color:#ff9e8d;font-size:14px}@media(prefers-reduced-motion:reduce){*,*::before,*::after{animation-duration:.01ms!important;animation-iteration-count:1!important;scroll-behavior:auto!important}}
+
+/* Keep effect labels legible and clear of the card favorite control. */
+.tag,.stage.dark .tag{top:auto;bottom:10px;right:10px;max-width:calc(100% - 20px);background:#10150d;color:#f4f7ef;border:1px solid #718064;font:600 11px/1.5 system-ui,sans-serif;padding:4px 9px;overflow:hidden;text-overflow:ellipsis;white-space:nowrap}

diff --git a/docs/VERIFICATION.md b/docs/VERIFICATION.md
@@ -1,8 +1,8 @@
 # 獨立驗收報告
 
-執行方式：先啟動本地網站，再執行 `node tests/acceptance.mjs`。驗證網址：http://127.0.0.1:4173。
+執行方式：先啟動本地網站，再執行 `node tests/acceptance.mjs`。驗證網址：http://127.0.0.1:4186。
 
-驗證工具：Microsoft Edge ／ Playwright。驗證時間：2026/11/03 11:55:35（台北時間，UTC+8）。
+驗證工具：Microsoft Edge ／ Playwright。驗證時間：2026/11/03 12:51:45（台北時間，UTC+8）。
 
 驗收結果：共 12 項，12 項通過，0 項未通過。
 
